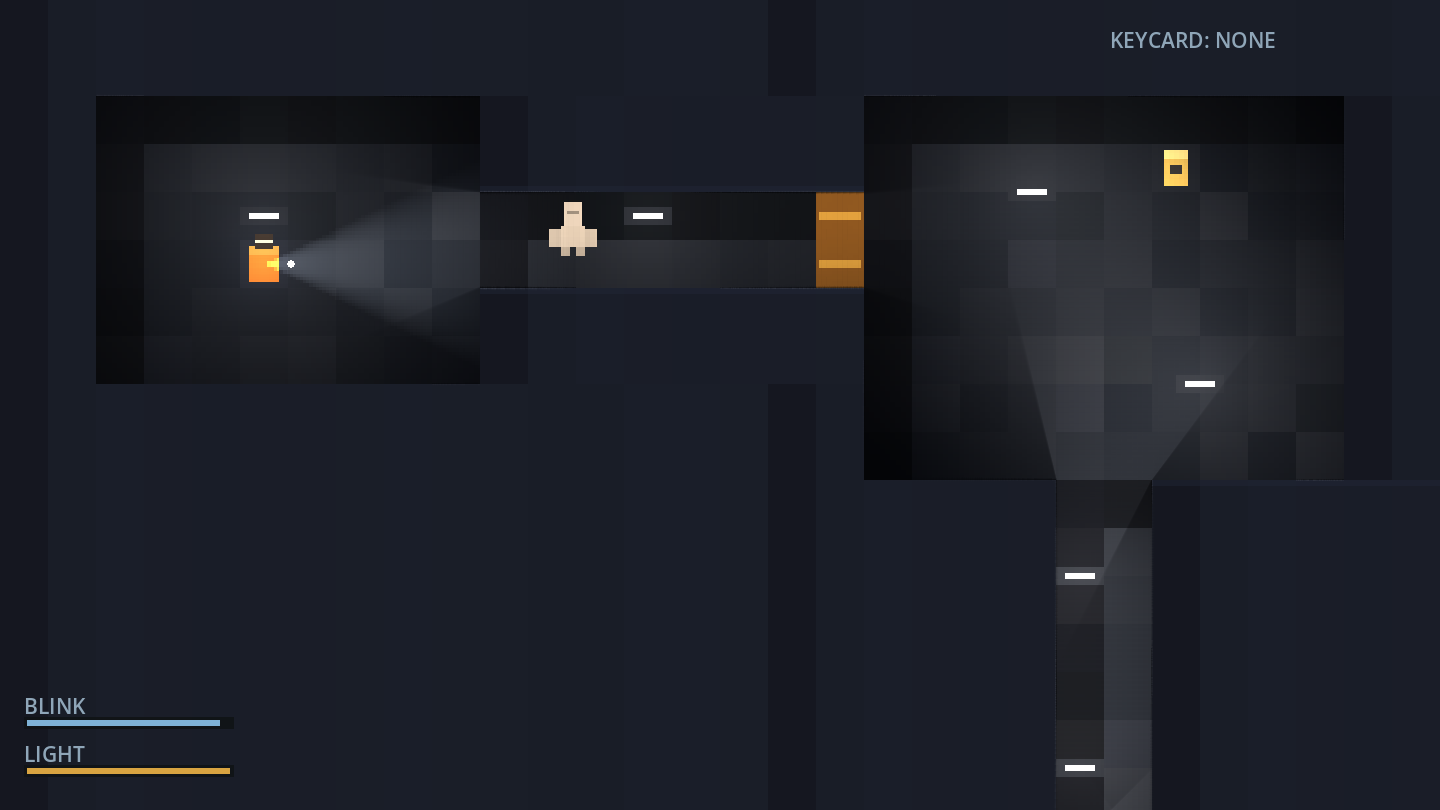
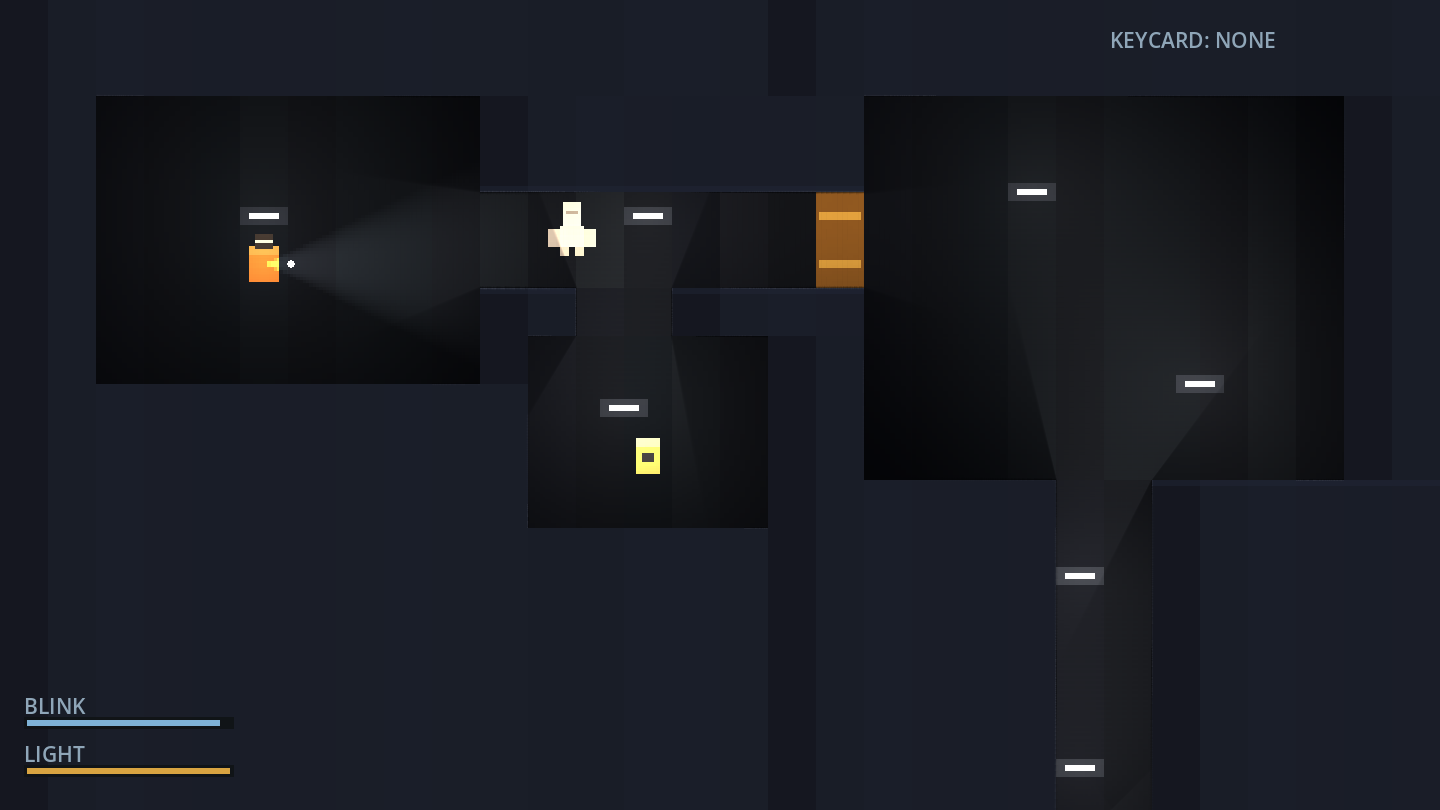
fix: put the keycard in a reachable side room (door no longer gates its own key)

diff --git a/README.md b/README.md
@@ -2,7 +2,11 @@
 
 把《SCP – Containment Breach》的体验做成**像素俯视 2D** 的免费同人游戏。开源、非商业。
 
-![demo](docs/images/demo.png)
+![demo](docs/images/encounter.png)
+
+*手电照住它，它不能动。关灯、眨眼、或者把光挪开——它就换位置了。*
+
+![layout](docs/images/demo.png)
 
 > 状态：**可玩 demo（垂直切片）**。只有一处手工搭建的设施区段，用于验证核心机制是否成立：黑暗里的手电、看不见就动的东西、会耗尽的眼睛。
 
